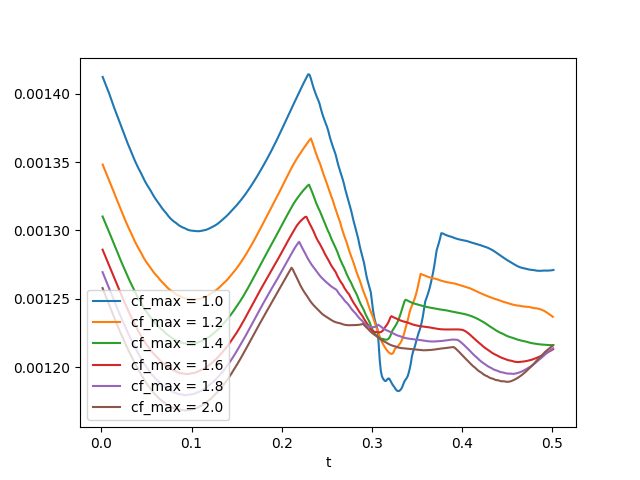
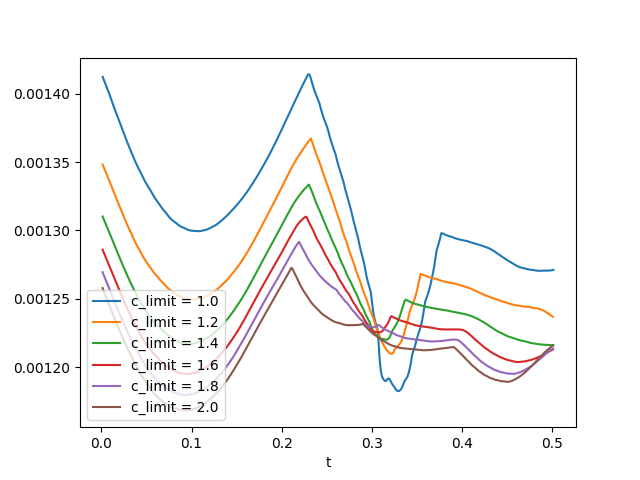
rename variable

Changed region(s): [[0.2188, 0.5938, 0.375, 0.875]]

diff --git a/analysis.py b/analysis.py
@@ -53,35 +53,35 @@ def main():
             plt.figure(figsize=(12, 4))
             plt.imshow(rho_all, aspect=1, cmap="jet")
             plt.colorbar()
-            plt.xlabel("cf_max = " + str(c_limits))
+            plt.xlabel("c_limit = " + str(c_limits))
             plt.savefig(prefix + "rho.png")
             plt.show()
 
             plt.figure(figsize=(12, 4))
             plt.imshow(P_B_all, aspect=1, cmap="jet")
             plt.colorbar()
-            plt.xlabel("cf_max = " + str(c_limits))
+            plt.xlabel("c_limit = " + str(c_limits))
             plt.savefig(prefix + "P_B.png")
             plt.show()
 
             plt.figure(figsize=(12, 4))
             plt.imshow(v_all, aspect=1, cmap="jet")
             plt.colorbar()
-            plt.xlabel("cf_max = " + str(c_limits))
+            plt.xlabel("c_limit = " + str(c_limits))
             plt.savefig(prefix + "v.png")
             plt.show()
 
             plt.figure(figsize=(12, 4))
             plt.imshow(ca_all, aspect=1, cmap="jet")
             plt.colorbar()
-            plt.xlabel("cf_max = " + str(c_limits))
+            plt.xlabel("c_limit = " + str(c_limits))
             plt.savefig(prefix + "ca.png")
             plt.show()
 
             plt.figure(figsize=(12, 4))
             plt.imshow(cf_all, aspect=1, cmap="jet")
             plt.colorbar()
-            plt.xlabel("cf_max = " + str(c_limits))
+            plt.xlabel("c_limit = " + str(c_limits))
             plt.savefig(prefix + "cf.png")
             plt.show()
 
@@ -95,7 +95,7 @@ def main():
             for c_limit in c_limits:
                 plt.plot(xlin, lim, "k--")
                 plt.plot(xlin, -lim, "k--")
-                plt.plot(xlin, Bz[c_limit][0, :], label="cf_max = " + str(c_limit))
+                plt.plot(xlin, Bz[c_limit][0, :], label="c_limit = " + str(c_limit))
                 plt.ylim(-0.18, 0.18)
             plt.legend(loc="upper left")
             plt.xlabel("x")
@@ -107,7 +107,7 @@ def main():
         plt.figure()
         for c_limit in c_limits:
             plt.plot(
-                np.cumsum(dt[c_limit]), dt[c_limit], label="cf_max = " + str(c_limit)
+                np.cumsum(dt[c_limit]), dt[c_limit], label="c_limit = " + str(c_limit)
             )
         plt.legend(loc="lower left")
         plt.xlabel("t")

diff --git a/README.md b/README.md
@@ -11,7 +11,7 @@ See also: https://arxiv.org/abs/1902.02810
 Simulate the Orszag-Tang vortex MHD problem
 with the Boris-like Integrator
 
-Run the simulations (`python mhd-boris.py <prob_id> <cf_max>`) and produce analysis with:
+Run the simulations (`python mhd-boris.py <prob_id> <c_limit>`) and produce analysis with:
 
 ```bash
 python mhd-boris.py 1 2.0
